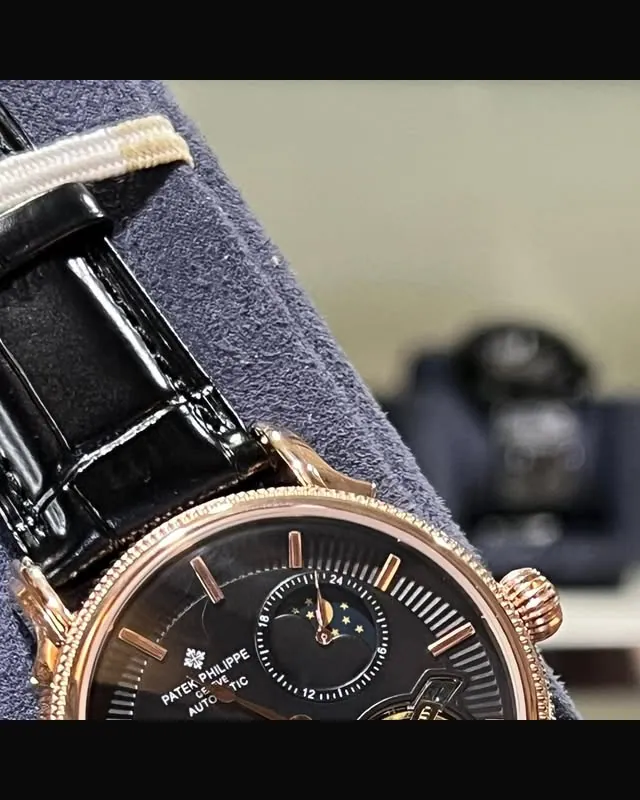
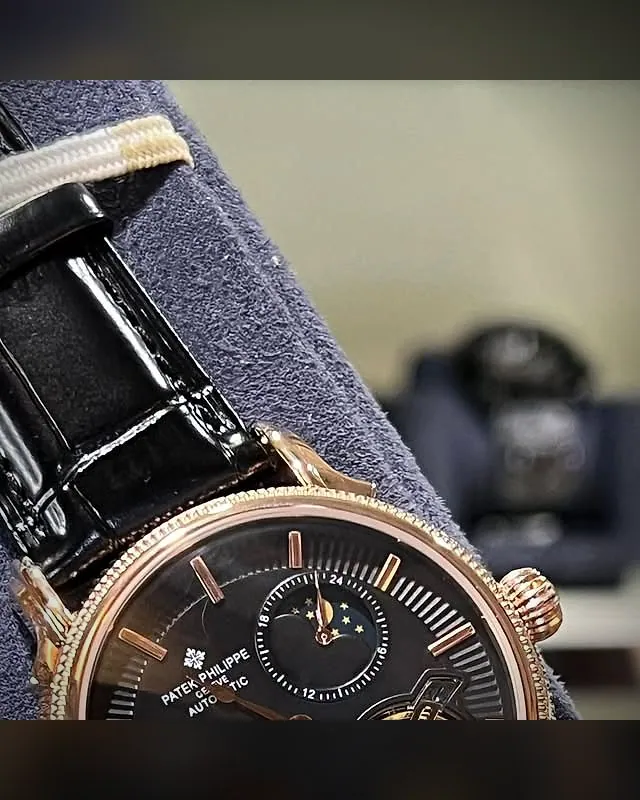
Live Bangladesh time on the hero watch, studio finish for product photos
- Hero watch is inlined in index.html (generated) so js/home.js can turn its
  hands to the current time in Bangladesh (UTC+6), independent of the
  visitor's time zone; smooth sweep, ticks with reduced motion
- optimise-images.mjs --studio: tone/colour correction, sharpening, blurred
  dark backdrop and vignette instead of flat black bars; product photos
  regenerated with it

diff --git a/index.html b/index.html
@@ -24,7 +24,6 @@
   <link rel="preconnect" href="https://fonts.gstatic.com" crossorigin>
   <link rel="stylesheet" href="https://fonts.googleapis.com/css2?family=Hind+Siliguri:wght@400;500;600&family=Inter:wght@400;500;600;700&family=Playfair+Display:ital,wght@0,400;0,500;0,600;1,400;1,500&display=swap">
   <link rel="stylesheet" href="css/styles.css">
-  <link rel="preload" as="image" href="images/hero-watch.svg" type="image/svg+xml">
   <script src="js/config.js" defer></script>
   <script src="js/demo-data.js" defer></script>
   <script src="js/products.js" defer></script>
@@ -72,7 +71,29 @@
     <!-- Hero -->
     <section class="hero" aria-labelledby="hero-title">
       <div class="hero__media">
-        <img src="images/hero-watch.svg" alt="Illustration of a classic wristwatch with a black dial" width="1200" height="1200" fetchpriority="high" decoding="async">
+        <!-- hero-watch:start -->
+<svg xmlns="http://www.w3.org/2000/svg" viewBox="0 0 1200 1200" width="1200" height="1200" class="hero__watch" role="img" aria-label="Watch showing the current time in Bangladesh">
+<defs>
+<linearGradient id="hw-metal" x1="0" y1="0" x2="1" y2="1"><stop offset="0" stop-color="#fff3cc"/><stop offset="0.17" stop-color="#e2bf75"/><stop offset="0.33" stop-color="#a27a2e"/><stop offset="0.5" stop-color="#f4dc9b"/><stop offset="0.67" stop-color="#b78f3e"/><stop offset="0.83" stop-color="#fbe8b2"/><stop offset="1" stop-color="#86621f"/></linearGradient>
+<linearGradient id="hw-metalR" x1="1" y1="1" x2="0" y2="0"><stop offset="0" stop-color="#fff3cc"/><stop offset="0.17" stop-color="#e2bf75"/><stop offset="0.33" stop-color="#a27a2e"/><stop offset="0.5" stop-color="#f4dc9b"/><stop offset="0.67" stop-color="#b78f3e"/><stop offset="0.83" stop-color="#fbe8b2"/><stop offset="1" stop-color="#86621f"/></linearGradient>
+<linearGradient id="hw-metalV" x1="0" y1="0" x2="1" y2="0"><stop offset="0" stop-color="#86621f"/><stop offset="0.25" stop-color="#e2bf75"/><stop offset="0.5" stop-color="#fff3cc"/><stop offset="0.75" stop-color="#f4dc9b"/><stop offset="1" stop-color="#a27a2e"/></linearGradient>
+<linearGradient id="hw-handL" x1="0" y1="0" x2="1" y2="0"><stop offset="0" stop-color="#fbe3a4"/><stop offset="1" stop-color="#a57b30"/></linearGradient>
+<linearGradient id="hw-handD" x1="0" y1="0" x2="1" y2="0"><stop offset="0" stop-color="#a57b30"/><stop offset="1" stop-color="#fbe3a4"/></linearGradient>
+<radialGradient id="hw-dial" cx="0.4" cy="0.35" r="0.8"><stop offset="0" stop-color="#2a2723"/><stop offset="1" stop-color="#050505"/></radialGradient>
+<radialGradient id="hw-bezelInsert" cx="0.4" cy="0.35" r="0.8"><stop offset="0" stop-color="#2a2723"/><stop offset="1" stop-color="#050505"/></radialGradient>
+<linearGradient id="hw-strap" x1="0" y1="0" x2="1" y2="0"><stop offset="0" stop-color="#0b0b0b"/><stop offset="0.45" stop-color="#2b2b2b"/><stop offset="1" stop-color="#0b0b0b"/></linearGradient>
+<linearGradient id="hw-glass" x1="0" y1="0" x2="0" y2="1"><stop offset="0" stop-color="#fff" stop-opacity="0.42"/><stop offset="1" stop-color="#fff" stop-opacity="0"/></linearGradient>
+<pattern id="hw-scales" width="30" height="22" patternUnits="userSpaceOnUse"><rect x="2" y="2" width="26" height="18" rx="7" fill="none" stroke="#000" stroke-opacity="0.3" stroke-width="1.6"/><rect x="5" y="5" width="12" height="6" rx="3" fill="#fff" fill-opacity="0.04"/></pattern>
+<pattern id="hw-clous" width="12" height="12" patternUnits="userSpaceOnUse" patternTransform="rotate(45)"><rect width="12" height="12" fill="none"/><path d="M0,0 L12,0 M0,0 L0,12" stroke="#000" stroke-opacity="0.08" stroke-width="1.5"/><rect x="1" y="1" width="5" height="5" fill="#fff" fill-opacity="0.25"/></pattern>
+<filter id="hw-grain" x="0" y="0" width="100%" height="100%"><feTurbulence type="fractalNoise" baseFrequency="0.9" numOctaves="2" stitchTiles="stitch"/><feColorMatrix type="saturate" values="0"/></filter>
+<filter id="hw-blur" x="-50%" y="-50%" width="200%" height="200%"><feGaussianBlur stdDeviation="24"/></filter>
+<filter id="hw-blurSm" x="-50%" y="-50%" width="200%" height="200%"><feGaussianBlur stdDeviation="10"/></filter>
+<filter id="hw-handShadow" x="-50%" y="-50%" width="200%" height="200%"><feDropShadow dx="3" dy="5" stdDeviation="3" flood-color="#000" flood-opacity="0.4"/></filter>
+<clipPath id="hw-dialClip"><circle cx="600" cy="600" r="287.1"/></clipPath><radialGradient id="hw-halo" cx="0.5" cy="0.5" r="0.5"><stop offset="0" stop-color="#c9a961" stop-opacity="0.35"/><stop offset="1" stop-color="#c9a961" stop-opacity="0"/></radialGradient></defs>
+<circle cx="600" cy="600" r="560" fill="url(#hw-halo)"/>
+<g transform="rotate(-16 600 600)"><ellipse cx="626.4" cy="639.6" rx="336.6" ry="336.6" fill="#000" opacity="0.38" filter="url(#hw-blur)"/><g opacity="0.22" filter="url(#hw-blurSm)" transform="translate(14 18)"><path d="M435,342.6 L461.4,-700 L738.6,-700 L765,342.6 Z"/><path d="M435,857.4 L461.4,1900 L738.6,1900 L765,857.4 Z"/></g><path d="M435,342.6 L461.4,-700 L738.6,-700 L765,342.6 Z" fill="url(#hw-strap)" stroke="#000" stroke-opacity="0.35" stroke-width="2"/><path d="M435,857.4 L461.4,1900 L738.6,1900 L765,857.4 Z" fill="url(#hw-strap)" stroke="#000" stroke-opacity="0.35" stroke-width="2"/><path d="M435,342.6 L461.4,-700 L738.6,-700 L765,342.6 Z" fill="url(#hw-scales)"/><path d="M435,857.4 L461.4,1900 L738.6,1900 L765,857.4 Z" fill="url(#hw-scales)"/><line x1="450" y1="336.6" x2="476.25" y2="-700" stroke="#c9a961" stroke-width="2.2" stroke-dasharray="9 7" stroke-linecap="round" opacity="0.9"/><line x1="750" y1="336.6" x2="723.75" y2="-700" stroke="#c9a961" stroke-width="2.2" stroke-dasharray="9 7" stroke-linecap="round" opacity="0.9"/><line x1="450" y1="863.4" x2="476.25" y2="1900" stroke="#c9a961" stroke-width="2.2" stroke-dasharray="9 7" stroke-linecap="round" opacity="0.9"/><line x1="750" y1="863.4" x2="723.75" y2="1900" stroke="#c9a961" stroke-width="2.2" stroke-dasharray="9 7" stroke-linecap="round" opacity="0.9"/><rect x="401.4" y="250.2" width="39.6" height="165" rx="16.5" fill="url(#hw-metalV)" stroke="#000" stroke-opacity="0.3" stroke-width="1.5"/><rect x="401.4" y="784.8" width="39.6" height="165" rx="16.5" fill="url(#hw-metalV)" stroke="#000" stroke-opacity="0.3" stroke-width="1.5"/><rect x="759" y="250.2" width="39.6" height="165" rx="16.5" fill="url(#hw-metalV)" stroke="#000" stroke-opacity="0.3" stroke-width="1.5"/><rect x="759" y="784.8" width="39.6" height="165" rx="16.5" fill="url(#hw-metalV)" stroke="#000" stroke-opacity="0.3" stroke-width="1.5"/><g transform="rotate(0 600 600)"><rect x="922" y="567" width="50.9" height="66" rx="11.88" fill="url(#hw-metalV)" stroke="#000" stroke-opacity="0.35" stroke-width="1.5"/><line x1="940.73" y1="578" x2="970.9" y2="578" stroke="#000" stroke-opacity="0.35" stroke-width="1.5"/><line x1="940.73" y1="589" x2="970.9" y2="589" stroke="#000" stroke-opacity="0.35" stroke-width="1.5"/><line x1="940.73" y1="600" x2="970.9" y2="600" stroke="#000" stroke-opacity="0.35" stroke-width="1.5"/><line x1="940.73" y1="611" x2="970.9" y2="611" stroke="#000" stroke-opacity="0.35" stroke-width="1.5"/><line x1="940.73" y1="622" x2="970.9" y2="622" stroke="#000" stroke-opacity="0.35" stroke-width="1.5"/></g><circle cx="600" cy="600" r="330" fill="url(#hw-metal)" stroke="#000" stroke-opacity="0.4" stroke-width="2"/><circle cx="600" cy="600" r="318.45" fill="url(#hw-metalR)"/><circle cx="600" cy="600" r="306.9" fill="url(#hw-metal)" stroke="#000" stroke-opacity="0.25" stroke-width="1"/><circle cx="600" cy="600" r="297" fill="url(#hw-metalR)" stroke="#000" stroke-opacity="0.35" stroke-width="1"/><circle cx="600" cy="600" r="291.06" fill="#000" fill-opacity="0.55"/><circle cx="600" cy="600" r="287.1" fill="url(#hw-dial)"/><g clip-path="url(#hw-dialClip)"><path d="M600,600L600,312.9M600,600L607.52,313M600,600L615.03,313.29M600,600L622.53,313.79M600,600L630.01,314.47M600,600L637.47,315.36M600,600L644.91,316.43M600,600L652.32,317.71M600,600L659.69,319.17M600,600L667.02,320.83M600,600L674.31,322.68M600,600L681.54,324.72M600,600L688.72,326.95M600,600L695.84,329.37M600,600L702.89,331.97M600,600L709.87,334.75M600,600L716.77,337.72M600,600L723.6,340.87M600,600L730.34,344.19M600,600L736.99,347.69M600,600L743.55,351.36M600,600L750.01,355.21M600,600L756.37,359.22M600,600L762.62,363.39M600,600L768.75,367.73M600,600L774.78,372.23M600,600L780.68,376.88M600,600L786.46,381.69M600,600L792.11,386.64M600,600L797.63,391.75M600,600L803.01,396.99M600,600L808.25,402.37M600,600L813.36,407.89M600,600L818.31,413.54M600,600L823.12,419.32M600,600L827.77,425.22M600,600L832.27,431.25M600,600L836.61,437.38M600,600L840.78,443.63M600,600L844.79,449.99M600,600L848.64,456.45M600,600L852.31,463.01M600,600L855.81,469.66M600,600L859.13,476.4M600,600L862.28,483.23M600,600L865.25,490.13M600,600L868.03,497.11M600,600L870.63,504.16M600,600L873.05,511.28M600,600L875.28,518.46M600,600L877.32,525.69M600,600L879.17,532.98M600,600L880.83,540.31M600,600L882.29,547.68M600,600L883.57,555.09M600,600L884.64,562.53M600,600L885.53,569.99M600,600L886.21,577.47M600,600L886.71,584.97M600,600L887,592.48M600,600L887.1,600M600,600L887,607.52M600,600L886.71,615.03M600,600L886.21,622.53M600,600L885.53,630.01M600,600L884.64,637.47M600,600L883.57,644.91M600,600L882.29,652.32M600,600L880.83,659.69M600,600L879.17,667.02M600,600L877.32,674.31M600,600L875.28,681.54M600,600L873.05,688.72M600,600L870.63,695.84M600,600L868.03,702.89M600,600L865.25,709.87M600,600L862.28,716.77M600,600L859.13,723.6M600,600L855.81,730.34M600,600L852.31,736.99M600,600L848.64,743.55M600,600L844.79,750.01M600,600L840.78,756.37M600,600L836.61,762.62M600,600L832.27,768.75M600,600L827.77,774.78M600,600L823.12,780.68M600,600L818.31,786.46M600,600L813.36,792.11M600,600L808.25,797.63M600,600L803.01,803.01M600,600L797.63,808.25M600,600L792.11,813.36M600,600L786.46,818.31M600,600L780.68,823.12M600,600L774.78,827.77M600,600L768.75,832.27M600,600L762.62,836.61M600,600L756.37,840.78M600,600L750.01,844.79M600,600L743.55,848.64M600,600L736.99,852.31M600,600L730.34,855.81M600,600L723.6,859.13M600,600L716.77,862.28M600,600L709.87,865.25M600,600L702.89,868.03M600,600L695.84,870.63M600,600L688.72,873.05M600,600L681.54,875.28M600,600L674.31,877.32M600,600L667.02,879.17M600,600L659.69,880.83M600,600L652.32,882.29M600,600L644.91,883.57M600,600L637.47,884.64M600,600L630.01,885.53M600,600L622.53,886.21M600,600L615.03,886.71M600,600L607.52,887M600,600L600,887.1M600,600L592.48,887M600,600L584.97,886.71M600,600L577.47,886.21M600,600L569.99,885.53M600,600L562.53,884.64M600,600L555.09,883.57M600,600L547.68,882.29M600,600L540.31,880.83M600,600L532.98,879.17M600,600L525.69,877.32M600,600L518.46,875.28M600,600L511.28,873.05M600,600L504.16,870.63M600,600L497.11,868.03M600,600L490.13,865.25M600,600L483.23,862.28M600,600L476.4,859.13M600,600L469.66,855.81M600,600L463.01,852.31M600,600L456.45,848.64M600,600L449.99,844.79M600,600L443.63,840.78M600,600L437.38,836.61M600,600L431.25,832.27M600,600L425.22,827.77M600,600L419.32,823.12M600,600L413.54,818.31M600,600L407.89,813.36M600,600L402.37,808.25M600,600L396.99,803.01M600,600L391.75,797.63M600,600L386.64,792.11M600,600L381.69,786.46M600,600L376.88,780.68M600,600L372.23,774.78M600,600L367.73,768.75M600,600L363.39,762.62M600,600L359.22,756.37M600,600L355.21,750.01M600,600L351.36,743.55M600,600L347.69,736.99M600,600L344.19,730.34M600,600L340.87,723.6M600,600L337.72,716.77M600,600L334.75,709.87M600,600L331.97,702.89M600,600L329.37,695.84M600,600L326.95,688.72M600,600L324.72,681.54M600,600L322.68,674.31M600,600L320.83,667.02M600,600L319.17,659.69M600,600L317.71,652.32M600,600L316.43,644.91M600,600L315.36,637.47M600,600L314.47,630.01M600,600L313.79,622.53M600,600L313.29,615.03M600,600L313,607.52M600,600L312.9,600M600,600L313,592.48M600,600L313.29,584.97M600,600L313.79,577.47M600,600L314.47,569.99M600,600L315.36,562.53M600,600L316.43,555.09M600,600L317.71,547.68M600,600L319.17,540.31M600,600L320.83,532.98M600,600L322.68,525.69M600,600L324.72,518.46M600,600L326.95,511.28M600,600L329.37,504.16M600,600L331.97,497.11M600,600L334.75,490.13M600,600L337.72,483.23M600,600L340.87,476.4M600,600L344.19,469.66M600,600L347.69,463.01M600,600L351.36,456.45M600,600L355.21,449.99M600,600L359.22,443.63M600,600L363.39,437.38M600,600L367.73,431.25M600,600L372.23,425.22M600,600L376.88,419.32M600,600L381.69,413.54M600,600L386.64,407.89M600,600L391.75,402.37M600,600L396.99,396.99M600,600L402.37,391.75M600,600L407.89,386.64M600,600L413.54,381.69M600,600L419.32,376.88M600,600L425.22,372.23M600,600L431.25,367.73M600,600L437.38,363.39M600,600L443.63,359.22M600,600L449.99,355.21M600,600L456.45,351.36M600,600L463.01,347.69M600,600L469.66,344.19M600,600L476.4,340.87M600,600L483.23,337.72M600,600L490.13,334.75M600,600L497.11,331.97M600,600L504.16,329.37M600,600L511.28,326.95M600,600L518.46,324.72M600,600L525.69,322.68M600,600L532.98,320.83M600,600L540.31,319.17M600,600L547.68,317.71M600,600L555.09,316.43M600,600L562.53,315.36M600,600L569.99,314.47M600,600L577.47,313.79M600,600L584.97,313.29M600,600L592.48,313" stroke="#fff" stroke-opacity="0.05" stroke-width="1.2"/><path d="M312.9,312.9 L887.1,887.1 L887.1,427.74 Z" fill="#fff" opacity="0.06"/></g><line x1="600" y1="322.95" x2="600" y2="341.61" stroke="#e9d9a8" stroke-opacity="0.75" stroke-width="2.4"/><line x1="628.96" y1="324.47" x2="627.76" y2="335.89" stroke="#e9d9a8" stroke-opacity="0.75" stroke-width="1.2"/><line x1="657.6" y1="329" x2="655.21" y2="340.24" stroke="#e9d9a8" stroke-opacity="0.75" stroke-width="1.2"/><line x1="685.61" y1="336.51" x2="682.06" y2="347.43" stroke="#e9d9a8" stroke-opacity="0.75" stroke-width="1.2"/><line x1="712.69" y1="346.9" x2="708.02" y2="357.39" stroke="#e9d9a8" stroke-opacity="0.75" stroke-width="1.2"/><line x1="738.53" y1="360.07" x2="729.2" y2="376.23" stroke="#e9d9a8" stroke-opacity="0.75" stroke-width="2.4"/><line x1="762.85" y1="375.86" x2="756.1" y2="385.15" stroke="#e9d9a8" stroke-opacity="0.75" stroke-width="1.2"/><line x1="785.38" y1="394.11" x2="777.7" y2="402.64" stroke="#e9d9a8" stroke-opacity="0.75" stroke-width="1.2"/><line x1="805.89" y1="414.62" x2="797.36" y2="422.3" stroke="#e9d9a8" stroke-opacity="0.75" stroke-width="1.2"/><line x1="824.14" y1="437.15" x2="814.85" y2="443.9" stroke="#e9d9a8" stroke-opacity="0.75" stroke-width="1.2"/><line x1="839.93" y1="461.47" x2="823.77" y2="470.81" stroke="#e9d9a8" stroke-opacity="0.75" stroke-width="2.4"/><line x1="853.1" y1="487.31" x2="842.61" y2="491.98" stroke="#e9d9a8" stroke-opacity="0.75" stroke-width="1.2"/><line x1="863.49" y1="514.39" x2="852.57" y2="517.94" stroke="#e9d9a8" stroke-opacity="0.75" stroke-width="1.2"/><line x1="871" y1="542.4" x2="859.76" y2="544.79" stroke="#e9d9a8" stroke-opacity="0.75" stroke-width="1.2"/><line x1="875.53" y1="571.04" x2="864.11" y2="572.24" stroke="#e9d9a8" stroke-opacity="0.75" stroke-width="1.2"/><line x1="877.05" y1="600" x2="858.39" y2="600" stroke="#e9d9a8" stroke-opacity="0.75" stroke-width="2.4"/><line x1="875.53" y1="628.96" x2="864.11" y2="627.76" stroke="#e9d9a8" stroke-opacity="0.75" stroke-width="1.2"/><line x1="871" y1="657.6" x2="859.76" y2="655.21" stroke="#e9d9a8" stroke-opacity="0.75" stroke-width="1.2"/><line x1="863.49" y1="685.61" x2="852.57" y2="682.06" stroke="#e9d9a8" stroke-opacity="0.75" stroke-width="1.2"/><line x1="853.1" y1="712.69" x2="842.61" y2="708.02" stroke="#e9d9a8" stroke-opacity="0.75" stroke-width="1.2"/><line x1="839.93" y1="738.53" x2="823.77" y2="729.2" stroke="#e9d9a8" stroke-opacity="0.75" stroke-width="2.4"/><line x1="824.14" y1="762.85" x2="814.85" y2="756.1" stroke="#e9d9a8" stroke-opacity="0.75" stroke-width="1.2"/><line x1="805.89" y1="785.38" x2="797.36" y2="777.7" stroke="#e9d9a8" stroke-opacity="0.75" stroke-width="1.2"/><line x1="785.38" y1="805.89" x2="777.7" y2="797.36" stroke="#e9d9a8" stroke-opacity="0.75" stroke-width="1.2"/><line x1="762.85" y1="824.14" x2="756.1" y2="814.85" stroke="#e9d9a8" stroke-opacity="0.75" stroke-width="1.2"/><line x1="738.53" y1="839.93" x2="729.2" y2="823.77" stroke="#e9d9a8" stroke-opacity="0.75" stroke-width="2.4"/><line x1="712.69" y1="853.1" x2="708.02" y2="842.61" stroke="#e9d9a8" stroke-opacity="0.75" stroke-width="1.2"/><line x1="685.61" y1="863.49" x2="682.06" y2="852.57" stroke="#e9d9a8" stroke-opacity="0.75" stroke-width="1.2"/><line x1="657.6" y1="871" x2="655.21" y2="859.76" stroke="#e9d9a8" stroke-opacity="0.75" stroke-width="1.2"/><line x1="628.96" y1="875.53" x2="627.76" y2="864.11" stroke="#e9d9a8" stroke-opacity="0.75" stroke-width="1.2"/><line x1="600" y1="877.05" x2="600" y2="858.39" stroke="#e9d9a8" stroke-opacity="0.75" stroke-width="2.4"/><line x1="571.04" y1="875.53" x2="572.24" y2="864.11" stroke="#e9d9a8" stroke-opacity="0.75" stroke-width="1.2"/><line x1="542.4" y1="871" x2="544.79" y2="859.76" stroke="#e9d9a8" stroke-opacity="0.75" stroke-width="1.2"/><line x1="514.39" y1="863.49" x2="517.94" y2="852.57" stroke="#e9d9a8" stroke-opacity="0.75" stroke-width="1.2"/><line x1="487.31" y1="853.1" x2="491.98" y2="842.61" stroke="#e9d9a8" stroke-opacity="0.75" stroke-width="1.2"/><line x1="461.47" y1="839.93" x2="470.81" y2="823.77" stroke="#e9d9a8" stroke-opacity="0.75" stroke-width="2.4"/><line x1="437.15" y1="824.14" x2="443.9" y2="814.85" stroke="#e9d9a8" stroke-opacity="0.75" stroke-width="1.2"/><line x1="414.62" y1="805.89" x2="422.3" y2="797.36" stroke="#e9d9a8" stroke-opacity="0.75" stroke-width="1.2"/><line x1="394.11" y1="785.38" x2="402.64" y2="777.7" stroke="#e9d9a8" stroke-opacity="0.75" stroke-width="1.2"/><line x1="375.86" y1="762.85" x2="385.15" y2="756.1" stroke="#e9d9a8" stroke-opacity="0.75" stroke-width="1.2"/><line x1="360.07" y1="738.53" x2="376.23" y2="729.2" stroke="#e9d9a8" stroke-opacity="0.75" stroke-width="2.4"/><line x1="346.9" y1="712.69" x2="357.39" y2="708.02" stroke="#e9d9a8" stroke-opacity="0.75" stroke-width="1.2"/><line x1="336.51" y1="685.61" x2="347.43" y2="682.06" stroke="#e9d9a8" stroke-opacity="0.75" stroke-width="1.2"/><line x1="329" y1="657.6" x2="340.24" y2="655.21" stroke="#e9d9a8" stroke-opacity="0.75" stroke-width="1.2"/><line x1="324.47" y1="628.96" x2="335.89" y2="627.76" stroke="#e9d9a8" stroke-opacity="0.75" stroke-width="1.2"/><line x1="322.95" y1="600" x2="341.61" y2="600" stroke="#e9d9a8" stroke-opacity="0.75" stroke-width="2.4"/><line x1="324.47" y1="571.04" x2="335.89" y2="572.24" stroke="#e9d9a8" stroke-opacity="0.75" stroke-width="1.2"/><line x1="329" y1="542.4" x2="340.24" y2="544.79" stroke="#e9d9a8" stroke-opacity="0.75" stroke-width="1.2"/><line x1="336.51" y1="514.39" x2="347.43" y2="517.94" stroke="#e9d9a8" stroke-opacity="0.75" stroke-width="1.2"/><line x1="346.9" y1="487.31" x2="357.39" y2="491.98" stroke="#e9d9a8" stroke-opacity="0.75" stroke-width="1.2"/><line x1="360.07" y1="461.47" x2="376.23" y2="470.8" stroke="#e9d9a8" stroke-opacity="0.75" stroke-width="2.4"/><line x1="375.86" y1="437.15" x2="385.15" y2="443.9" stroke="#e9d9a8" stroke-opacity="0.75" stroke-width="1.2"/><line x1="394.11" y1="414.62" x2="402.64" y2="422.3" stroke="#e9d9a8" stroke-opacity="0.75" stroke-width="1.2"/><line x1="414.62" y1="394.11" x2="422.3" y2="402.64" stroke="#e9d9a8" stroke-opacity="0.75" stroke-width="1.2"/><line x1="437.15" y1="375.86" x2="443.9" y2="385.15" stroke="#e9d9a8" stroke-opacity="0.75" stroke-width="1.2"/><line x1="461.47" y1="360.07" x2="470.8" y2="376.23" stroke="#e9d9a8" stroke-opacity="0.75" stroke-width="2.4"/><line x1="487.31" y1="346.9" x2="491.98" y2="357.39" stroke="#e9d9a8" stroke-opacity="0.75" stroke-width="1.2"/><line x1="514.39" y1="336.51" x2="517.94" y2="347.43" stroke="#e9d9a8" stroke-opacity="0.75" stroke-width="1.2"/><line x1="542.4" y1="329" x2="544.79" y2="340.24" stroke="#e9d9a8" stroke-opacity="0.75" stroke-width="1.2"/><line x1="571.04" y1="324.47" x2="572.24" y2="335.89" stroke="#e9d9a8" stroke-opacity="0.75" stroke-width="1.2"/><g transform="rotate(0 600 600)"><rect x="586.43" y="353.09" width="10.05" height="51.68" rx="1.5" fill="url(#hw-metalV)" stroke="#000" stroke-opacity="0.45" stroke-width="1"/></g><g transform="rotate(0 600 600)"><rect x="603.52" y="353.09" width="10.05" height="51.68" rx="1.5" fill="url(#hw-metalV)" stroke="#000" stroke-opacity="0.45" stroke-width="1"/></g><g transform="rotate(30 600 600)"><rect x="594.26" y="353.09" width="11.48" height="51.68" rx="1.5" fill="url(#hw-metalV)" stroke="#000" stroke-opacity="0.45" stroke-width="1"/></g><g transform="rotate(60 600 600)"><rect x="594.26" y="353.09" width="11.48" height="51.68" rx="1.5" fill="url(#hw-metalV)" stroke="#000" stroke-opacity="0.45" stroke-width="1"/></g><g transform="rotate(120 600 600)"><rect x="594.26" y="353.09" width="11.48" height="51.68" rx="1.5" fill="url(#hw-metalV)" stroke="#000" stroke-opacity="0.45" stroke-width="1"/></g><g transform="rotate(150 600 600)"><rect x="594.26" y="353.09" width="11.48" height="51.68" rx="1.5" fill="url(#hw-metalV)" stroke="#000" stroke-opacity="0.45" stroke-width="1"/></g><g transform="rotate(180 600 600)"><rect x="594.26" y="353.09" width="11.48" height="51.68" rx="1.5" fill="url(#hw-metalV)" stroke="#000" stroke-opacity="0.45" stroke-width="1"/></g><g transform="rotate(210 600 600)"><rect x="594.26" y="353.09" width="11.48" height="51.68" rx="1.5" fill="url(#hw-metalV)" stroke="#000" stroke-opacity="0.45" stroke-width="1"/></g><g transform="rotate(240 600 600)"><rect x="594.26" y="353.09" width="11.48" height="51.68" rx="1.5" fill="url(#hw-metalV)" stroke="#000" stroke-opacity="0.45" stroke-width="1"/></g><g transform="rotate(270 600 600)"><rect x="594.26" y="353.09" width="11.48" height="51.68" rx="1.5" fill="url(#hw-metalV)" stroke="#000" stroke-opacity="0.45" stroke-width="1"/></g><g transform="rotate(300 600 600)"><rect x="594.26" y="353.09" width="11.48" height="51.68" rx="1.5" fill="url(#hw-metalV)" stroke="#000" stroke-opacity="0.45" stroke-width="1"/></g><g transform="rotate(330 600 600)"><rect x="594.26" y="353.09" width="11.48" height="51.68" rx="1.5" fill="url(#hw-metalV)" stroke="#000" stroke-opacity="0.45" stroke-width="1"/></g><g filter="url(#hw-handShadow)"><g id="hw-hour" transform="translate(600 600) rotate(304.5)"><path d="M0,19.38 L-10.77,-32.16 L0,-160.78 Z" fill="url(#hw-handL)"/><path d="M0,19.38 L10.77,-32.16 L0,-160.78 Z" fill="url(#hw-handD)"/></g><g id="hw-minute" transform="translate(600 600) rotate(57.6)"><path d="M0,15.5 L-8.61,-48.23 L0,-241.16 Z" fill="url(#hw-handL)"/><path d="M0,15.5 L8.61,-48.23 L0,-241.16 Z" fill="url(#hw-handD)"/></g><g id="hw-second" transform="translate(600 600) rotate(216)"><rect x="-1.4" y="-258.39" width="2.8" height="321.55" rx="1.4" fill="#d8b86e"/><circle cx="0" cy="45.94" r="8.61" fill="#d8b86e"/></g><circle cx="600" cy="600" r="12.92" fill="url(#hw-metal)" stroke="#000" stroke-opacity="0.4"/><circle cx="600" cy="600" r="4.59" fill="#222"/></g><g clip-path="url(#hw-dialClip)"><ellipse cx="528.23" cy="442.1" rx="301.46" ry="157.91" transform="rotate(-28 528.23 442.1)" fill="url(#hw-glass)" opacity="0.55"/></g><path d="M412.44,867.86 A327,327 0 0 1 436.5,316.81" fill="none" stroke="#fff" stroke-opacity="0.55" stroke-width="3" stroke-linecap="round"/></g>
+</svg>
+        <!-- hero-watch:end -->
       </div>
       <div class="container hero__content">
         <p class="eyebrow">Est. 2026 · Chandpur, Bangladesh</p>

diff --git a/js/home.js b/js/home.js
@@ -4,6 +4,42 @@
 (() => {
   const { el } = ZW;
 
+  /* ---------- Hero watch: live Bangladesh time ----------
+   * Bangladesh Standard Time is UTC+6 all year (no daylight saving), so the time is worked out
+   * from UTC directly and does not depend on the visitor's own time zone. The second hand sweeps
+   * smoothly; with "reduce motion" switched on it ticks once a second instead. */
+  const watchHands = ['hour', 'minute', 'second'].map((k) => document.getElementById(`hw-${k}`));
+  if (watchHands.every(Boolean)) {
+    const BST_OFFSET_MS = 6 * 60 * 60 * 1000;
+    // Keep each hand's translate(...) and replace only its rotate(...)
+    const bases = watchHands.map((g) => g.getAttribute('transform').replace(/\s*rotate\([^)]*\)/, ''));
+    const reduceMotion = window.matchMedia('(prefers-reduced-motion: reduce)');
+
+    const render = () => {
+      const t = new Date(Date.now() + BST_OFFSET_MS);
+      const sec = t.getUTCSeconds() + (reduceMotion.matches ? 0 : t.getUTCMilliseconds() / 1000);
+      const min = t.getUTCMinutes() + sec / 60;
+      const hour = (t.getUTCHours() % 12) + min / 60;
+      [hour * 30, min * 6, sec * 6].forEach((deg, i) => {
+        watchHands[i].setAttribute('transform', `${bases[i]} rotate(${deg.toFixed(2)})`);
+      });
+    };
+
+    // Smooth sweep only while the hero is on screen; otherwise once a second is plenty.
+    let onScreen = true;
+    if ('IntersectionObserver' in window) {
+      new IntersectionObserver(([entry]) => {
+        onScreen = entry.isIntersecting;
+      }).observe(watchHands[0].ownerSVGElement);
+    }
+    const loop = () => {
+      render();
+      if (onScreen && !reduceMotion.matches) requestAnimationFrame(loop);
+      else setTimeout(loop, 1000 - (Date.now() % 1000));
+    };
+    loop();
+  }
+
   /* ---------- Featured watches ---------- */
   const grid = document.getElementById('featured-grid');
   if (grid) {

diff --git a/css/styles.css b/css/styles.css
@@ -605,8 +605,11 @@ button {
   transform: translateX(-50%);
 }
 
-.hero__media img {
+.hero__media img,
+.hero__media svg {
+  display: block;
   width: 100%;
+  height: auto;
   animation: float 9s ease-in-out infinite;
 }
 

diff --git a/README.md b/README.md
@@ -14,7 +14,7 @@ The site is plain **HTML, CSS and JavaScript**: no framework, no build step. It 
 
 | Page | File | What it does |
 | --- | --- | --- |
-| Home | `index.html` | Hero, featured watches, "Shop by brand", why ZENRO, how to order, customer reviews (only when you add real ones), Instagram and Facebook links |
+| Home | `index.html` | Hero with a watch that shows the live Bangladesh time (UTC+6), featured watches, "Shop by brand", why ZENRO, how to order, customer reviews (only when you add real ones), Instagram and Facebook links |
 | Collection | `shop.html` | All watches grouped by brand. `?brand=rolex` shows a brand page with its models. `?brand=rolex&model=datejust` shows one model. Includes a price filter and sorting |
 | Product | `product.html?id=...` | Photos, price or "Ask for price", condition, Add to Cart and Buy Now, specifications, "View on Instagram", related watches |
 | Cart | `cart.html` | Quantities, subtotal, delivery charge, total |
@@ -50,7 +50,7 @@ The site is plain **HTML, CSS and JavaScript**: no framework, no build step. It 
 ├── tools/
 │   ├── optimise-images.mjs     prepares product photos
 │   ├── stamp.mjs               rewrites the shared head/header/footer on every page, sitemap.xml and robots.txt
-│   └── generate-images.mjs     rebuilds the hero, favicon and sharing image
+│   └── generate-images.mjs     rebuilds the hero (also the live hero watch inlined in index.html), favicon and sharing image
 └── docs/PAYMENT_GATEWAY.md     payments now, and how to add online payments later
 ```
 
@@ -117,7 +117,7 @@ Slugs and ids may only contain lowercase letters, numbers and hyphens, because t
    For every photo, the tool:
    - turns it the right way up
    - **removes all EXIF and GPS location data**
-   - crops it to 4:5 (use `node tools/optimise-images.mjs --contain` to pad instead of crop)
+   - crops it to 4:5 (use `node tools/optimise-images.mjs --contain` to pad instead of crop, or `--studio` for phone / Instagram photos: tone and colour correction, sharpening, and a blurred dark backdrop instead of black bars)
    - saves a 1200 px and a 600 px WebP in `images/products/<brand>/<model>/`
    - never enlarges a small photo: a 640 px source gives a 640 px large file named `...-w640.webp` (the site reads the width from the name)
 4. The tool prints lines like `images: ['images/products/rolex/datejust/rolex-datejust-01-1.webp', ...]`. Paste each one into its product in `js/products.js`.
